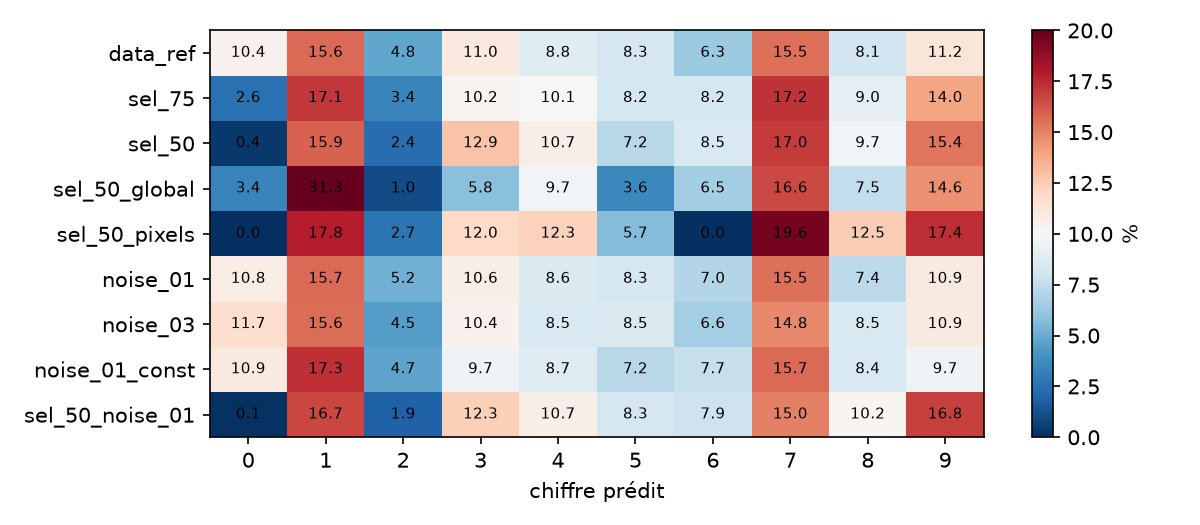
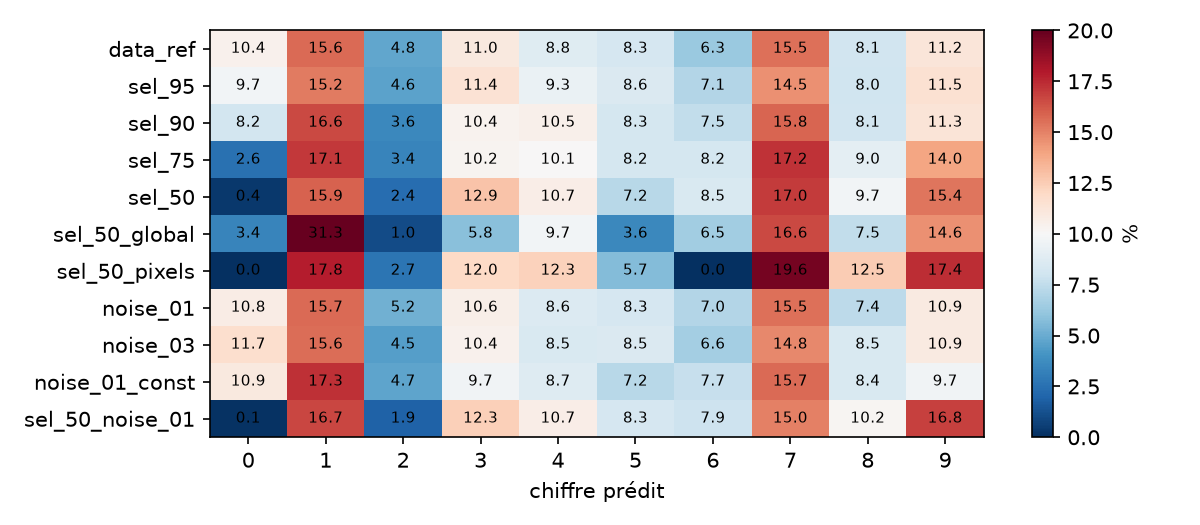
Test high retention (90 and 95 %) and describe each run in the report

diff --git a/figures/make_report_figures.py b/figures/make_report_figures.py
@@ -10,6 +10,7 @@ import sys
 import matplotlib
 import numpy as np
 import torch
+import yaml
 from PIL import Image
 
 matplotlib.use('Agg')
@@ -21,11 +22,11 @@ sys.path.insert(0, 'figures')
 from evaluate import mnist
 from make_data_figures import BUDGET, DEVICE, RUNS, load_runs
 from model import Discriminator
-from preprocessing import embed, select_instances
+from preprocessing import embed, noise_sigma, select_instances
 
 OUT = 'figures/report'
-SHOWN = ['data_ref', 'sel_75', 'sel_50', 'sel_50_global', 'noise_01', 'noise_03']
-REAL = {'data_ref': 'all', 'sel_75': 'sel_75', 'sel_50': 'sel_50', 'sel_50_global': 'sel_50_global',
+SHOWN = ['data_ref', 'sel_95', 'sel_90', 'sel_75', 'sel_50', 'sel_50_global', 'noise_01', 'noise_03']
+REAL = {'data_ref': 'all', 'sel_95': 'sel_95', 'sel_90': 'sel_90', 'sel_75': 'sel_75', 'sel_50': 'sel_50', 'sel_50_global': 'sel_50_global',
         'sel_50_pixels': 'sel_50_pixels', 'sel_50_noise_01': 'sel_50'}
 
 
@@ -84,7 +85,7 @@ def pr_scatter(runs):
 
 def curves(runs):
     """FID moyen ± écart-type selon le nombre de mises à jour, sélection et bruit séparés."""
-    groups = [['data_ref', 'sel_75', 'sel_50', 'sel_50_global'], ['data_ref', 'noise_01', 'noise_03', 'noise_01_const']]
+    groups = [['data_ref', 'sel_95', 'sel_90', 'sel_75', 'sel_50', 'sel_50_global'], ['data_ref', 'noise_01', 'noise_03', 'noise_01_const']]
     fig, axes = plt.subplots(1, 2, figsize=(11, 4), sharey=True)
     for ax, group, title in zip(axes, groups, ('Instance Selection', 'Instance Noise')):
         for name in group:
@@ -103,7 +104,7 @@ def curves(runs):
 
 def examples(runs):
     """Images générées à 60 000 mises à jour, même z pour toutes les variantes."""
-    fig, axes = plt.subplots(2, 3, figsize=(10, 7))
+    fig, axes = plt.subplots(2, 4, figsize=(13, 7))
     for ax, name in zip(axes.flat, SHOWN):
         s = first_ok(runs, name)
         r = runs[name][s]
@@ -160,8 +161,8 @@ def class_bars(runs):
     real = 9.9, 11.2, 9.9, 10.2, 9.7, 9.0, 9.9, 10.4, 9.8, 9.9
     final = {r['run']: [int(c) for c in r['classes'].split('-')]
              for r in csv.DictReader(open('figures/data/results_juliet.csv'))}
-    fig, axes = plt.subplots(1, 2, figsize=(12, 3.6), sharey=True)
-    for ax, name in zip(axes, ('data_ref', 'sel_50')):
+    fig, axes = plt.subplots(1, 3, figsize=(15, 3.6), sharey=True)
+    for ax, name in zip(axes, ('data_ref', 'sel_90', 'sel_50')):
         ok = [(s, r) for s, r in enumerate(runs[name]) if not r['collapsed']]
         mid = np.mean([r['classes'] for _, r in ok], 0)
         end = np.mean([100 * np.array(final[f'{name}_s{s}']) / sum(final[f'{name}_s{s}']) for s, _ in ok], 0)
@@ -174,6 +175,28 @@ def class_bars(runs):
     axes[0].set_ylabel('% des images')
     fig.tight_layout()
     fig.savefig(f'{OUT}/class_bars.png', dpi=140)
+
+
+def timeline():
+    """Ce que voit chaque variante au fil des mises à jour : fraction des images gardées et écart-type du bruit."""
+    fig, (a, b) = plt.subplots(1, 2, figsize=(12, 3.8))
+    names = list(RUNS)
+    for i, name in enumerate(names):
+        cfg = yaml.safe_load(open(f'configs/data/{name}.yaml'))
+        sel = cfg['data']['selection']
+        a.barh(i, sel['keep'] if sel['enabled'] else 1, color=RUNS[name][1])
+        a.text(0.02, i, f"{RUNS[name][0]} images, {cfg['train']['epochs']} époques", va='center', fontsize=7, color='white')
+        per = RUNS[name][0] // cfg['train']['batch_size']
+        if cfg['data']['instance_noise']['enabled']:
+            e = np.arange(1, cfg['train']['epochs'] + 1)
+            b.step(e * per, [noise_sigma(cfg, k) for k in e], where='pre', color=RUNS[name][1], label=name)
+    a.set(yticks=range(len(names)), yticklabels=names, xlim=(0, 1), xlabel='fraction des images d\'entraînement vues')
+    a.invert_yaxis()
+    b.axvline(BUDGET, color='#999999', lw=0.8, ls='--')
+    b.set(xlabel='mises à jour', ylabel='σ du bruit sur les entrées de D', ylim=(0, 0.32))
+    b.legend(fontsize=8)
+    fig.tight_layout()
+    fig.savefig(f'{OUT}/timeline.png', dpi=140)
 
 
 @torch.no_grad()
@@ -208,4 +231,5 @@ if __name__ == '__main__':
     for f in (scores, pr_scatter, curves, examples, evolution, collapse, class_bars):
         f(runs)
         print(f.__name__, flush=True)
+    timeline()
     d_scores()

diff --git a/figures/make_data_figures.py b/figures/make_data_figures.py
@@ -27,9 +27,10 @@ from utils import load_model, set_seed
 OUT = 'figures/data'
 DEVICE = torch.device('cpu')
 BUDGET = 60000  # mises à jour : comparaison à budget égal, sans choisir le meilleur point sur le test
-SUBSETS = {'sel_75': (0.75, True, 'classifier'), 'sel_50': (0.5, True, 'classifier'),
+SUBSETS = {'sel_95': (0.95, True, 'classifier'), 'sel_90': (0.9, True, 'classifier'),
+           'sel_75': (0.75, True, 'classifier'), 'sel_50': (0.5, True, 'classifier'),
            'sel_50_global': (0.5, False, 'classifier'), 'sel_50_pixels': (0.5, True, 'pixels')}
-RUNS = {'data_ref': (60000, '#333333'), 'sel_75': (45000, '#1f77b4'), 'sel_50': (30000, '#ff7f0e'),
+RUNS = {'data_ref': (60000, '#333333'), 'sel_95': (57000, '#bcbd22'), 'sel_90': (54000, '#7f7f7f'), 'sel_75': (45000, '#1f77b4'), 'sel_50': (30000, '#ff7f0e'),
         'sel_50_global': (30000, '#d62728'), 'sel_50_pixels': (30000, '#9467bd'), 'noise_01': (60000, '#2ca02c'),
         'noise_03': (60000, '#17becf'), 'noise_01_const': (60000, '#8c564b'), 'sel_50_noise_01': (30000, '#e377c2')}
 

diff --git a/rapport-donnée-illustré.md b/rapport-donnée-illustré.md
@@ -6,9 +6,13 @@
 
 ## Ce qu'il faut retenir
 
-1. **Instance Selection** (ne garder que les images les plus typiques) **dégrade le modèle sur MNIST.** Les images sont plus propres, mais moins variées. Certains chiffres disparaissent même : le 0 tombe à 0,4 % des images générées. Le FID passe de 76 à 331. **À ne pas garder.**
+1. **Instance Selection** (ne garder que les images les plus typiques) **n'améliore jamais le modèle sur MNIST.**
+   - **À 50 % ou 75 %,** elle le dégrade : les images sont plus propres, mais moins variées, et certains chiffres disparaissent (le 0 tombe à 0,4 % des images générées). Le FID passe de 76 à 331.
+   - **À 95 %,** pour ne retirer que les images les plus atypiques, elle est neutre : FID 76 contre 76.
+   - **À 90 %,** elle commence déjà à dégrader le modèle : FID 112.
+   - **À ne pas garder.**
 2. **Instance Noise** (bruiter les entrées de D) **ne change rien de mesurable.** Le FID passe de 76 à 65, un écart du même ordre que celui qu'on obtient en changeant de seed. Il n'empêche pas les échecs d'entraînement. **Facultatif, sans effet démontré.**
-3. **Le vrai problème est ailleurs, côté entraînement :** 15 runs sur 42 échouent dès les premières époques, avec ou sans option. Le FID remonte aussi après 60 000 mises à jour. Ces deux points concernent le volet Entraînement.
+3. **Le vrai problème est ailleurs, côté entraînement :** 19 runs sur 52 échouent dès les premières époques, avec ou sans option. Le FID remonte aussi après 60 000 mises à jour. Ces deux points concernent le volet Entraînement.
 
 ## 1. Ce qui a été implémenté
 
@@ -40,14 +44,40 @@ data:
 - **La sélection** retire de la masse aux données.
 - **Le bruit** élargit les deux distributions pour qu'elles se recouvrent. C'est la raison théorique avancée par Arjovsky & Bottou (2017), et Mescheder et al. (2018) démontrent sa convergence locale sur le Dirac-GAN, avec σ > 0.
 
-## 2. Protocole et tests
+## 2. Les runs, un par un
 
-- **Budget commun :** 120 000 mises à jour pour chaque run, soit 200 époques sur 60 000 images, 267 sur 45 000 et 400 sur 30 000.
+**Quand chaque option agit :**
+- **La sélection est calculée une seule fois, avant l'entraînement.** G et D ne voient alors que le sous-ensemble gardé, du début à la fin. L'évaluation, elle, se fait toujours contre le MNIST test complet.
+- **Le bruit est ajouté à chaque passage dans D,** sur les vraies images comme sur les fausses. Avec décroissance, σ diminue linéairement pendant les 60 000 premières mises à jour, puis vaut 0 : **à 60 000 mises à jour, le point de comparaison, plus aucun bruit n'est actif**, sauf pour `noise_01_const`.
+
+| Run | Ce que voient G et D | Sélection | Bruit sur les entrées de D | Époques | Seeds |
+|---|---|---|---|---:|---:|
+| `data_ref` | les 60 000 images | non | non | 200 | 8 |
+| `sel_95` | 57 000 images | 95 % gardés, dans chaque chiffre, features du classifieur | non | 211 | 5 |
+| `sel_90` | 54 000 images | 90 %, idem | non | 222 | 5 |
+| `sel_75` | 45 000 images | 75 %, idem | non | 267 | 3 |
+| `sel_50` | 30 000 images | 50 %, idem | non | 400 | 8 |
+| `sel_50_global` | 30 000 images, classes déséquilibrées | 50 %, **sur tout le dataset**, features | non | 400 | 3 |
+| `sel_50_pixels` | 30 000 images | 50 %, dans chaque chiffre, **ACP des pixels** | non | 400 | 3 |
+| `noise_01` | les 60 000 images | non | σ = 0,1 → 0 entre 0 et 60 000 mises à jour | 200 | 8 |
+| `noise_03` | les 60 000 images | non | σ = 0,3 → 0 entre 0 et 60 000 mises à jour | 200 | 3 |
+| `noise_01_const` | les 60 000 images | non | σ = 0,1 **pendant tout l'entraînement** | 200 | 3 |
+| `sel_50_noise_01` | 30 000 images | comme `sel_50` | comme `noise_01` | 400 | 3 |
+
+![Ce que voit chaque run et quand le bruit agit](figures/report/timeline.png)
+
+*À gauche : la part des images d'entraînement gardée. À droite : σ selon le nombre de mises à jour. `noise_01` est caché sous `sel_50_noise_01`, qui a la même courbe. Pointillé : le point de comparaison.*
+
+- **Même nombre de mises à jour pour tous :** 120 000. Moins il reste d'images, plus il faut d'époques.
+- **Évaluation :** environ toutes les 12 000 mises à jour.
+
+## 3. Protocole et tests
+
 - **Point de comparaison :** 60 000 mises à jour, le creux du FID de la référence. Ce point est fixé une fois pour tous les runs, ce qui évite de choisir le meilleur moment de chacun sur le test. Les valeurs finales sont aussi données.
 - **Une seule variable à la fois** par rapport à `data_ref`, sauf `sel_50_noise_01`, qui vérifie que les deux options se combinent.
-- **Répétitions :** 8 seeds pour `data_ref`, `sel_50` et `noise_01`, 3 seeds pour les autres variantes. Au total, 42 runs sur Juliet (GPU), avec le commit `0bf18f5` inscrit dans chaque `config.yaml`.
+- **Répétitions :** 52 runs sur Juliet (GPU), avec le commit `0bf18f5` inscrit dans chaque `config.yaml`.
 - **Métriques :** FID, precision et recall k-NN (k = 3), calculés dans les features du classifieur partagé, sur 10 000 images, contre le MNIST test.
-- **Runs ratés :** un run est dit raté si son recall final est inférieur à 0,01 (§ 6). Les moyennes les excluent, et leur nombre est indiqué.
+- **Runs ratés :** un run est dit raté si son recall final est inférieur à 0,01 (§ 8). Les moyennes les excluent, et leur nombre est indiqué.
 
 | Test | Résultat |
 |---|---|
@@ -55,7 +85,7 @@ data:
 | Options désactivées contre `main` : 2 époques sur CPU, même seed | Poids de G identiques au bit près |
 | Essai court de chaque option, avec reprise par `--resume` | Fonctionne |
 
-## 3. Ce que fait la sélection, sur les vraies images
+## 4. Ce que fait la sélection, sur les vraies images
 
 ![Images gardées et rejetées](figures/data/kept_vs_rejected.png)
 
@@ -71,6 +101,8 @@ Chaque sous-ensemble (10 000 images tirées au hasard) est ensuite comparé au M
 | Sous-ensemble | Images | FID | Precision | Recall | FID moyen par chiffre |
 |---|---:|---:|---:|---:|---:|
 | Tout le train | 60 000 | 2,9 | 0,864 | 0,892 | 9,2 |
+| `sel_95` | 57 000 | 3,1 | 0,882 | 0,863 | 10,8 |
+| `sel_90` | 54 000 | 5,0 | 0,893 | 0,842 | 14,3 |
 | `sel_75` | 44 999 | 9,8 | 0,917 | 0,765 | 30,4 |
 | `sel_50` | 30 000 | 25,3 | 0,942 | 0,630 | 67,1 |
 | `sel_50_pixels` (ACP des pixels) | 30 000 | 21,8 | 0,933 | 0,640 | 64,7 |
@@ -78,18 +110,21 @@ Chaque sous-ensemble (10 000 images tirées au hasard) est ensuite comparé au M
 
 **Lecture :**
 - **La sélection rend les données plus « propres »** (precision de 0,86 à 0,94), mais **plus étroites** (recall de 0,89 à 0,63). Elle retire aussi la diversité qu'il faudrait reproduire.
+- **À 95 %, le sous-ensemble est presque le train complet** (FID 3,1 contre 2,9). À 90 %, le recall a déjà perdu 0,05.
 - **Sélectionner sans séparer les chiffres déséquilibre les classes :** il reste 1,4 % de 2 et 21,7 % de 1, d'où un FID de 180 avant même tout entraînement. C'est pour cela que le papier sélectionne par classe.
 - **Les pixels donnent presque le même sous-ensemble que les features** (FID 21,8 contre 25,3). La sélection ne dépend donc pas beaucoup du classifieur.
 
-## 4. Les scores des GAN
+## 5. Les scores des GAN
 
 ![FID, precision et recall à 60k mises à jour](figures/report/scores.png)
 
-*Barre : moyenne des runs réussis. Points : chaque run. Losange blanc : le même score sur les vraies images que voit la variante (§ 3).*
+*Barre : moyenne des runs réussis. Points : chaque run. Losange blanc : le même score sur les vraies images que voit la variante (§ 4).*
 
 | Variante | Runs ratés | FID à 60k ↓ | Precision à 60k ↑ | Recall à 60k ↑ | FID final | Precision finale | Recall final |
 |---|---:|---:|---:|---:|---:|---:|---:|
 | `data_ref` (aucune option) | 3 / 8 | **75,7 ± 10,0** | 0,753 | **0,718** | 226,6 | 0,851 | 0,745 |
+| `sel_95` | 2 / 5 | **76,0 ± 8,8** | 0,775 | 0,680 | 203,9 | 0,859 | 0,725 |
+| `sel_90` | 2 / 5 | 111,9 ± 16,0 | 0,793 | 0,646 | 243,7 | 0,872 | 0,688 |
 | `sel_75` | 0 / 3 | 215,9 ± 39,4 | 0,837 | 0,563 | 443,2 | 0,893 | 0,581 |
 | `sel_50` | 4 / 8 | 331,4 ± 13,3 | 0,843 | 0,382 | 729,0 | 0,932 | 0,362 |
 | `sel_50_global` | 0 / 3 | 439,8 ± 12,7 | 0,801 | 0,356 | 515,0 | 0,881 | 0,455 |
@@ -101,6 +136,10 @@ Chaque sous-ensemble (10 000 images tirées au hasard) est ensuite comparé au M
 
 **Lecture :**
 - **La sélection fait monter la precision** (0,75 → 0,84) et **chuter le recall** (0,72 → 0,38). Plus on sélectionne, plus l'effet est fort.
+- **Une rétention élevée ne fait pas mieux :**
+  - `sel_95` égale la référence (test de Welch, p = 0,97). Les 5 % retirés ne pesaient rien, ni en bien ni en mal.
+  - `sel_90` est déjà moins bon (p = 0,07) : le recall baisse, comme pour les rétentions plus faibles.
+  - Il n'y a donc pas de « bonne » rétention où le gain du papier apparaîtrait. Plus on retire d'images, plus le modèle se dégrade.
 - **Le losange limite ce que le GAN peut atteindre.** Avec 50 % des images, même un GAN parfait aurait un recall de 0,63 et un FID de 25 : on s'impose un plafond plus bas avant même d'entraîner.
 - **Le bruit ne déplace aucune barre** au-delà de l'écart entre seeds (test de Welch : p = 0,10 pour σ = 0,1, p = 0,23 pour σ = 0,3). L'écart s'annule à la fin.
 - **Combiner les deux options** donne le comportement de la sélection seule : le bruit n'y ajoute rien.
@@ -114,33 +153,38 @@ Chaque sous-ensemble (10 000 images tirées au hasard) est ensuite comparé au M
 - **Le bruit ne crée pas de troisième nuage** : ses points se mélangent à ceux de la référence.
 - **Aucun GAN n'atteint son étoile.** L'écart restant vient du modèle, pas des données.
 
-## 5. Ce que ça donne en images
+## 6. Ce que ça donne en images
 
 ![Exemples à 60k mises à jour](figures/report/examples_60k.png)
 
-*Même vecteur z pour les 6 grilles : une même case correspond au même tirage aléatoire. Premier run réussi de chaque variante.*
+*Même vecteur z pour les 8 grilles : une même case correspond au même tirage aléatoire. Premier run réussi de chaque variante.*
 
 **Lecture :**
 - **`data_ref`** : les 10 chiffres sont présents, avec des styles variés. On voit quelques artefacts, comme une tache en ligne 5.
+- **`sel_95`** : indiscernable de la référence, avec tous les chiffres et des styles variés.
+- **`sel_90`** : tous les chiffres sont encore là, mais avec plus de 1 et des traits plus brouillés que sur les autres grilles.
 - **`sel_75` et `sel_50`** : les traits sont plus nets et plus réguliers, mais les grilles sont dominées par des 1, des 7 et des 9. Le 0 est absent de la grille `sel_50`. C'est exactement « precision ↑, recall ↓ ».
 - **`sel_50_global`** : les chiffres déjà rares dans son sous-ensemble (2, 5) se raréfient encore.
 - **`noise_01` et `noise_03`** : visuellement indiscernables de la référence.
 
 ![Mélange des chiffres générés](figures/report/class_bars.png)
 
-*Gris : les données d'entraînement, équilibrées dans les deux cas. Couleur : les images générées, à 60k et en fin d'entraînement.*
+*Gris clair : les données d'entraînement, équilibrées dans les trois cas. Barres foncées : les images générées à 60k ; barres claires : en fin d'entraînement.*
 
 **Lecture :**
+- **`sel_90` garde à peu près le mélange de la référence** à 60k (8 % de 0, 3,5 % de 2), et dérive de la même façon ensuite. Le déséquilibre fort n'apparaît qu'à 50 %.
 - **La sélection est faite chiffre par chiffre**, donc les données vues par `sel_50` restent équilibrées, à 10 % par chiffre.
 - **Le GAN ne reproduit pourtant pas cet équilibre :** il génère 0,4 % de 0, 2,4 % de 2, et 16 à 17 % de 1, de 7 et de 9.
 - **La raison :** notre générateur n'est pas conditionnel, et rien ne l'oblige à couvrir chaque chiffre. Dans le papier, le modèle reçoit la classe en entrée, et ce problème ne se pose pas.
-- **Une piste (hypothèse) :** en retirant les images « frontières » entre chiffres, la sélection éloigne les chiffres les uns des autres. On compare la distance à l'image d'un autre chiffre la plus proche et la distance à l'image du même chiffre la plus proche. Leur rapport passe de 3,6 à 5,2 dans les features, et de 3,2 à 3,7 en pixels. Un générateur qui part d'un z continu atteint plus difficilement des modes isolés. La mesure montre que l'écart existe, pas qu'il est la cause : pour le savoir, il faudrait réinjecter les images frontières.
+- **Une piste (hypothèse) :** en retirant les images « frontières » entre chiffres, la sélection éloigne les chiffres les uns des autres. On compare la distance à l'image d'un autre chiffre la plus proche et la distance à l'image du même chiffre la plus proche. Leur rapport passe de 3,6 (tout le train) à 3,9 (95 %), 4,3 (90 %) et 5,2 (50 %) dans les features, et de 3,2 à 3,7 en pixels. Un générateur qui part d'un z continu atteint plus difficilement des modes isolés. La mesure montre que l'écart existe, pas qu'il est la cause : pour le savoir, il faudrait réinjecter les images frontières.
 
 **Qualité à chiffre fixé.** Pour séparer la qualité des traits du mélange des chiffres, on calcule le FID de chaque chiffre généré contre le même chiffre réel. Le chiffre est celui prédit par le classifieur, sur 50 000 images du générateur final. On ne garde que les chiffres d'au moins 500 images, puis on fait la moyenne.
 
 | Variante | FID moyen par chiffre | Plancher (vraies images) | Excès | Chiffres pris en compte |
 |---|---:|---:|---:|---:|
 | `data_ref` | 71,7 | 9,2 | 63 | 10 |
+| `sel_95` | 64,5 | 10,8 | 54 | 9,7 |
+| `sel_90` | 65,9 | 14,3 | 52 | 9,3 |
 | `sel_75` | 79,6 | 30,4 | 49 | 8,3 |
 | `sel_50` | 130,5 | 67,1 | 63 | 8 |
 | `noise_01` | 64,1 | 9,2 | 55 | 9,8 |
@@ -150,9 +194,10 @@ Chaque sous-ensemble (10 000 images tirées au hasard) est ensuite comparé au M
 - **Le FID global de la sélection vient surtout du mélange des chiffres.** En fin d'entraînement, `sel_50` vaut 729 au global, mais 131 à chiffre fixé.
 - **Au-dessus du plancher, `sel_50` et `data_ref` ont le même excès (63).** Le GAN n'apprend pas mieux la distribution réduite : il apprend seulement une cible plus étroite.
 - **`noise_03` fait mieux que la référence à chiffre fixé** (55,5 contre 71,7 ; p = 0,04). Mais ce test ne porte que sur 3 runs et n'est pas corrigé pour le nombre de comparaisons : c'est un indice à revérifier, pas un résultat.
+- **`sel_95` et `sel_90` aussi, un peu** (64,5 et 65,9 ; p = 0,05 et 0,19). Même prudence. Si l'effet est réel, il serait léger, et il ne compense pas la perte de diversité, puisque le FID global ne s'améliore pas.
 - **Le nombre de chiffres pris en compte varie d'une ligne à l'autre** (`sel_50` exclut notamment le 0 et le 2) : les excès se comparent donc avec prudence.
 
-## 6. Au fil de l'entraînement
+## 7. Au fil de l'entraînement
 
 ![FID selon le nombre de mises à jour](figures/report/fid_curves.png)
 
@@ -161,27 +206,27 @@ Chaque sous-ensemble (10 000 images tirées au hasard) est ensuite comparé au M
 ![Évolution des images, même z](figures/report/evolution.png)
 
 **Lecture :**
-- **Toutes les courbes sont en U.** Le meilleur FID se situe vers 48 000-72 000 mises à jour pour la référence, et vers 36 000-48 000 pour la sélection, qui atteint son optimum plus tôt.
+- **Toutes les courbes sont en U.** Le meilleur FID se situe vers 48 000-72 000 mises à jour pour la référence, `sel_95` et `sel_90`. Il arrive plus tôt, vers 36 000-48 000, pour `sel_75` et `sel_50`.
 - **À droite des courbes, les images ne se dégradent pas, elles se spécialisent.** À 120 000 mises à jour, les chiffres de `data_ref` sont aussi nets qu'à 60 000, et la precision passe même de 0,75 à 0,85. Mais les 1 envahissent la grille : ils passent de 16 % à 28 % des images, tandis que les 2 tombent de 4,8 % à 1,3 %. Le FID, sensible au mélange des chiffres, remonte de 76 à 227.
 - **Le mélange final ressemble à celui d'une sélection globale à 50 %** : la corrélation passe de 0,78 à 60k à 0,95 à la fin, sur 10 classes. Le GAN semble concentrer sa masse sur les chiffres les plus denses, sans qu'on puisse en conclure la cause.
 - **Le bruit ne retarde pas cette dérive** : à droite, les quatre courbes restent superposées jusqu'au bout.
 - **Cela explique un écart constaté au début du projet :** la baseline à 50 époques (30 000 mises à jour) était encore en pleine descente.
 - **Conséquence pratique** pour le volet Entraînement : arrêter vers 60 000 mises à jour, ou garder le checkpoint au meilleur FID sur une validation. 200 époques font pire que 100.
 
-## 7. Les runs ratés
+## 8. Les runs ratés
 
 ![Effondrement de l'entraînement](figures/report/collapse.png)
 
 *À gauche : score moyen que D donne aux vraies images, pour les 8 seeds de `data_ref`. À droite : ce que produit un run raté.*
 
 **Lecture :**
-- **Ce n'est pas un mode collapse sur un chiffre.** Le générateur sort la même tache de bruit pour tous les z, et les 15 runs ratés ont tous cet aspect. Le classifieur les range ensuite le plus souvent dans « 8 » (11 runs sur 15) : c'est ce qui donnait l'illusion d'un effondrement « sur un chiffre ».
+- **Ce n'est pas un mode collapse sur un chiffre.** Le générateur sort la même tache de bruit pour tous les z, et les 19 runs ratés ont tous cet aspect. Le classifieur les range ensuite le plus souvent dans « 8 » (11 des 15 premiers runs ratés) : c'est ce qui donnait l'illusion d'un effondrement « sur un chiffre ».
 - **Tout se joue au tout début.** D reconnaît les vraies images avec certitude (D(x) = 1) dès l'époque 2 à 7. G ne reçoit alors plus de gradient utile, et le FID ne bouge plus. Les runs sains, eux, oscillent entre 0,7 et 0,85.
-- **Ni la sélection ni le bruit n'y changent quoi que ce soit.** On compte 3 runs ratés sur 8 pour la référence, et 4 sur 8 pour `sel_50` comme pour `noise_01` (test exact de Fisher, p = 1). Le 0 sur 3 de `noise_03` et de `sel_75` ne prouve rien : avec un taux de base de 3/8, il arrive une fois sur quatre par hasard. Sur les 3 premières seeds, `sel_50` semblait rater plus souvent que la référence (2 sur 3 contre 0 sur 3) ; l'effet a disparu avec 8 seeds.
-- **Pourquoi le bruit n'aide pas :** on pouvait en attendre mieux, puisqu'il est censé rendre la tâche de D plus difficile. Il est sans doute trop faible (σ = 0,1 pour des pixels dans [−1, 1]) pour empêcher D de gagner dès l'époque 2. Nous ne l'avons pas vérifié avec un σ initial plus grand.
+- **Ni la sélection ni le bruit n'y changent quoi que ce soit.** On compte 3 runs ratés sur 8 pour la référence, 4 sur 8 pour `sel_50` comme pour `noise_01`, et 2 sur 5 pour `sel_95` comme pour `sel_90` (test exact de Fisher, p = 1 à chaque fois). Le 0 sur 3 de `noise_03` et de `sel_75` ne prouve rien : avec un taux de base de 3/8, il arrive une fois sur quatre par hasard. Sur les 3 premières seeds, `sel_50` semblait rater plus souvent que la référence (2 sur 3 contre 0 sur 3) ; l'effet a disparu avec 8 seeds.
+- **Pourquoi le bruit n'aide pas :** on pouvait en attendre mieux, puisqu'il est censé rendre la tâche de D plus difficile. Il est peut-être trop faible (σ = 0,1 pour des pixels dans [−1, 1]) pour empêcher D de gagner dès l'époque 2. Avec σ = 0,3, aucun des 3 runs n'a raté, mais 3 seeds ne suffisent pas pour conclure.
 - **Conséquence pratique :** ce problème se règle côté entraînement. On peut surveiller D(x) et relancer le run s'il dépasse 0,98 avant l'époque 10, ou changer de perte, ce que teste le volet Entraînement.
 
-## 8. Ce que D a appris
+## 9. Ce que D a appris
 
 ![Score de D sur images vues, rejetées et test](figures/report/d_scores.png)
 
@@ -192,19 +237,19 @@ Chaque sous-ensemble (10 000 images tirées au hasard) est ensuite comparé au M
 - **Les images rejetées par la sélection, qu'il n'a jamais vues, reçoivent le même score que le test** (0,59). D a donc mémorisé ses images ; il n'a pas appris un critère de « typicité ».
 - **Il rejette tout de même plus souvent les images atypiques :** près de 1 000 images rejetées tombent dans la tranche D(x) < 0,02, contre 600 pour le test.
 - **La référence montre le même écart :** 0,68 à 0,76 sur les images vues, 0,51 à 0,60 sur le test. Cette mesure a été faite une seule fois, hors script.
-- **Lien possible avec le § 6 :** ce sur-apprentissage de D expliquerait plausiblement la dérive, G étant poussé vers ce que D a mémorisé.
+- **Lien possible avec le § 7 :** ce sur-apprentissage de D expliquerait plausiblement la dérive, G étant poussé vers ce que D a mémorisé.
 
-## 9. Différences avec les papiers
+## 10. Différences avec les papiers
 
 ### Instance Selection
 
 | | Papier | Nous | Conséquence probable |
 |---|---|---|---|
-| **Générateur** | SAGAN, BigGAN : **conditionnels** | MLP **sans condition** | Le mélange des classes n'est pas imposé : 0 et 2 peuvent disparaître (§ 5) |
-| **Données** | ImageNet 64 à 256 px, 1 000 classes, images atypiques nombreuses | MNIST 28 px, 10 classes, déjà centré et propre | Moins de déchets à retirer : on enlève de la diversité utile (§ 3) |
+| **Générateur** | SAGAN, BigGAN : **conditionnels** | MLP **sans condition** | Le mélange des classes n'est pas imposé : 0 et 2 peuvent disparaître (§ 6) |
+| **Données** | ImageNet 64 à 256 px, 1 000 classes, images atypiques nombreuses | MNIST 28 px, 10 classes, déjà centré et propre | Moins de déchets à retirer : on enlève de la diversité utile (§ 4) |
 | **Représentation** | Inception pré-entraîné sur ImageNet | Petit CNN entraîné sur MNIST | Même logique ; `sel_50_pixels` teste une représentation indépendante de la métrique |
 | **Score** | Gaussienne, légèrement devant PPCA et KNN | Gaussienne, par chiffre | Identique |
-| **Rétention** | 10 à 90 %, meilleur FID à 40 % en 64×64 | 75 % et 50 % | Nos deux points ne couvrent pas les taux élevés, proches de 100 % |
+| **Rétention** | 10 à 90 %, meilleur FID à 40 % en 64×64 | 95, 90, 75 et 50 % | Aucun taux ne fait mieux que la référence ; 95 % est neutre |
 | **Capacité** | Réduite, ce que le papier présente comme un argument : moins de données à couvrir | G imposé (slides 74-75), D non modifié | Le gain n'est pas réinvesti dans un modèle mieux adapté |
 | **Référence** | Distribution d'entraînement complète | MNIST test complet | Même principe : on mesure contre les données non filtrées |
 | **Résultat** | FID de 17,2 à 9,1 (64×64), de 11,5 à 9,6 (128×128) ; recall de 0,66 à 0,50 | FID de 76 à 331 ; recall de 0,72 à 0,38 | Recall : même sens. FID : sens opposé |
@@ -223,23 +268,24 @@ Chaque sous-ensemble (10 000 images tirées au hasard) est ensuite comparé au M
 - **Mais le gain du papier repose sur des hypothèses absentes ici :** un modèle conditionnel, des données qui contiennent de vrais déchets, et une capacité libérée puis réutilisée.
 - **Sur MNIST, avec un MLP sans condition,** la queue de la distribution est de la diversité utile, et la retirer coûte plus qu'elle ne rapporte.
 
-## 10. Recommandations pour le modèle final
+## 11. Recommandations pour le modèle final
 
 | Option | Recommandation | Raison |
 |---|---|---|
-| Instance Selection | **Désactivée** | FID ×4, recall ÷2, chiffres manquants |
+| Instance Selection | **Désactivée** | Neutre à 95 %, nuisible dès 90 % ; à 50 % : FID ×4, recall ÷2, chiffres manquants |
 | Instance Noise | Désactivé, ou σ = 0,1 si l'on veut | Pas d'effet mesurable, pas de coût |
 | Durée d'entraînement | ≈ 60 000 mises à jour, ou meilleur checkpoint sur validation | Le FID remonte ensuite |
 | Runs ratés | Détecter D(x) > 0,98 tôt et relancer | Plus d'un run sur trois échoue, toutes options confondues |
 
+**Rétention élevée (testée) :** à 95 %, on ne retire que les images les plus atypiques, et le modèle ne change pas. Sur MNIST, il n'y a presque pas de vraies anomalies à retirer.
+
 **Ce qui pourrait faire marcher la sélection (non testé) :**
-- **une rétention élevée** (90-95 %), pour ne retirer que les vraies anomalies ;
 - **un générateur conditionnel**, mais l'architecture est imposée ;
 - **une sélection par chiffre suivie d'un rééquilibrage** du mélange généré.
 
 ## Limites
 
-- **Peu de seeds** pour certaines variantes : 3, et un seul run réussi pour `sel_50_pixels` et `noise_01_const`. Les variantes à 3 seeds ne permettent pas de conclure sur les runs ratés.
+- **Peu de seeds** pour certaines variantes : 3 runs réussis pour `sel_95` et `sel_90`, et un seul pour `sel_50_pixels` et `noise_01_const`. Les variantes à 3 seeds ne permettent pas de conclure sur les runs ratés.
 - **Exclure les runs ratés** améliore les moyennes de toutes les variantes : les chiffres décrivent donc les runs qui ont réussi, pas toutes les tentatives.
 - **La métrique et la sélection partagent le même classifieur.** Ce biais est signalé pour le papier aussi. `sel_50_pixels` donne un sous-ensemble équivalent sur les vraies images, mais ne lève pas le biais pour l'évaluation.
 - **Le MNIST test sert de référence partout**, y compris pour choisir le point des 60 000 mises à jour. Nos runs utilisent les 60 000 images d'entraînement, car le split train / val de la branche `quentin/inference` n'est pas sur `main`. Avant le rapport final, il faudra refaire les chiffres retenus avec ce split.
@@ -258,8 +304,8 @@ python figures/make_report_figures.py           # figures de ce rapport
 python -m pytest tests/test_preprocessing.py
 ```
 
-- **Seeds 3 à 7** de `data_ref`, `noise_01` et `sel_50` : `python train.py --config configs/data/<variante>.yaml --seed <n>`.
-- **Données nécessaires :** les runs dans `runs/`, avec leurs fichiers TensorBoard, et `D.pth` pour la figure du § 8.
+- **Seeds en plus :** 3 à 7 pour `data_ref`, `noise_01` et `sel_50`, puis 0 à 4 pour `sel_95` et `sel_90`. Chaque run se lance avec `python train.py --config configs/data/<variante>.yaml --seed <n>`.
+- **Données nécessaires :** les runs dans `runs/`, avec leurs fichiers TensorBoard, et `D.pth` pour la figure du § 9.
 - **Où sont les résultats :** les mesures brutes dans [`figures/data/`](figures/data/), les figures dans [`figures/report/`](figures/report/).
 
 ## Sources
